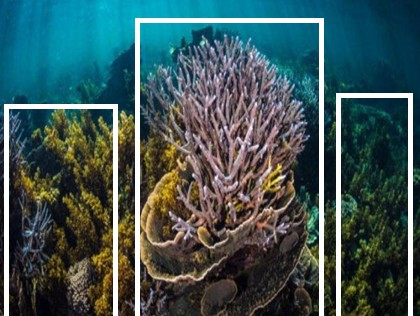
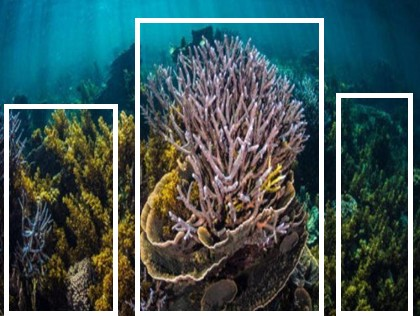
Keep coral thumbnail boxes inside the image
The boxes were drawn before the 4:3 crop, so boxes reaching the frame
edge lost their bottom or side edges. Crop first, then draw the boxes
clamped to the cropped image.

Changed region(s): [[0.3095, 0.9684, 0.7738, 1.0], [0.0, 0.9684, 0.2786, 1.0], [0.8048, 0.9684, 0.9905, 1.0]]

diff --git a/poster/make_assets.py b/poster/make_assets.py
@@ -62,14 +62,17 @@ def coral_thumbs(size=420):
             corners = [arr[:24, :24], arr[:24, -24:], arr[-24:, :24], arr[-24:, -24:]]
             if min(c.mean() for c in corners) < 20:
                 continue  # black fill from the dataset's rotation augmentation
-            if True:
-                d = ImageDraw.Draw(img)
-                for _, x, y, w, h in ([float(v) for v in r] for r in rows):
-                    d.rectangle([(x - w / 2) * size, (y - h / 2) * size, (x + w / 2) * size, (y + h / 2) * size],
-                                outline="white", width=5)
-                img.crop((0, size // 8, size, size - size // 8)).save(FIG / f"coral_{name}.jpg", quality=90)  # 4:3
-                print(f"coral {name}: {lbl.stem}")
-                break
+            top = size // 8
+            img = img.crop((0, top, size, size - top))  # 4:3
+            d = ImageDraw.Draw(img)
+            for _, x, y, w, h in ([float(v) for v in r] for r in rows):
+                # clamp to the crop so boxes that reach the frame edge keep all four sides
+                d.rectangle([max(0, (x - w / 2) * size), max(0, (y - h / 2) * size - top),
+                             min(img.width - 1, (x + w / 2) * size), min(img.height - 1, (y + h / 2) * size - top)],
+                            outline="white", width=5)
+            img.save(FIG / f"coral_{name}.jpg", quality=90)
+            print(f"coral {name}: {lbl.stem}")
+            break
 
 
 def qr():
